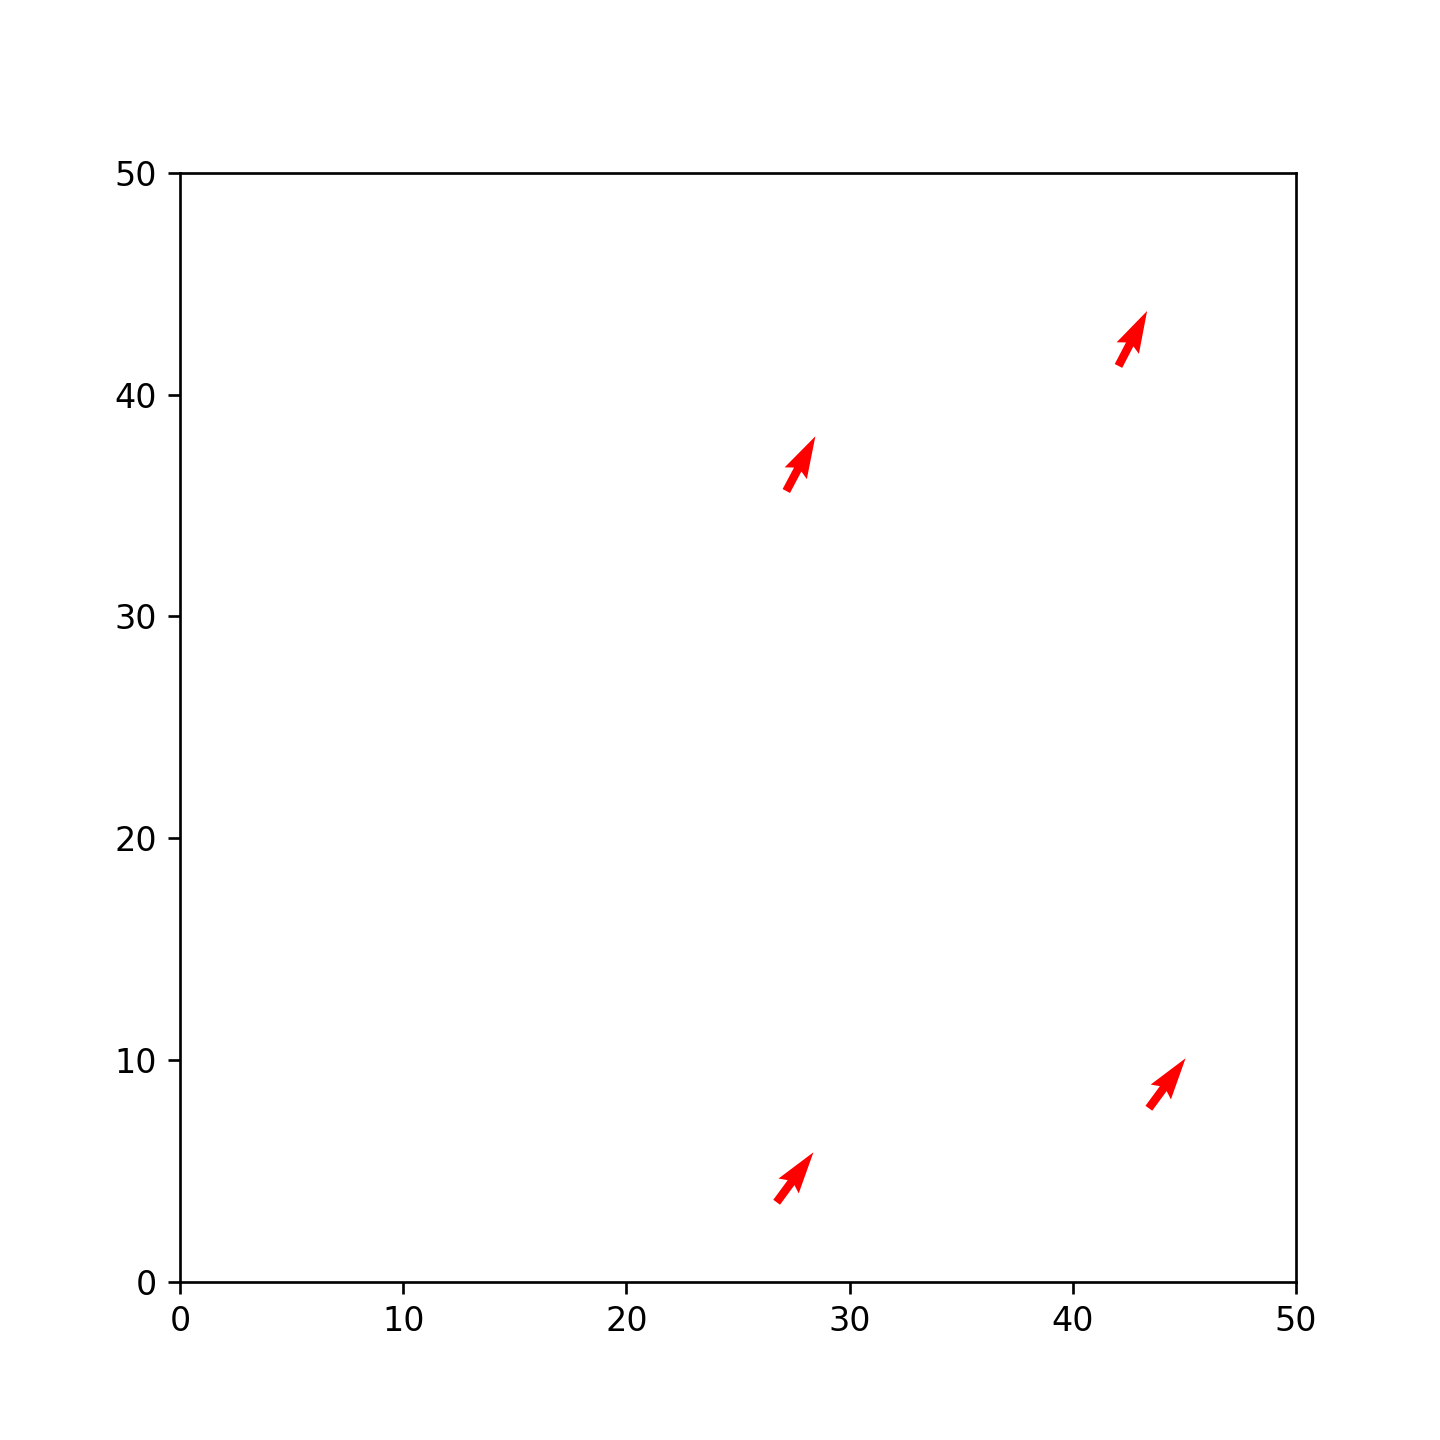
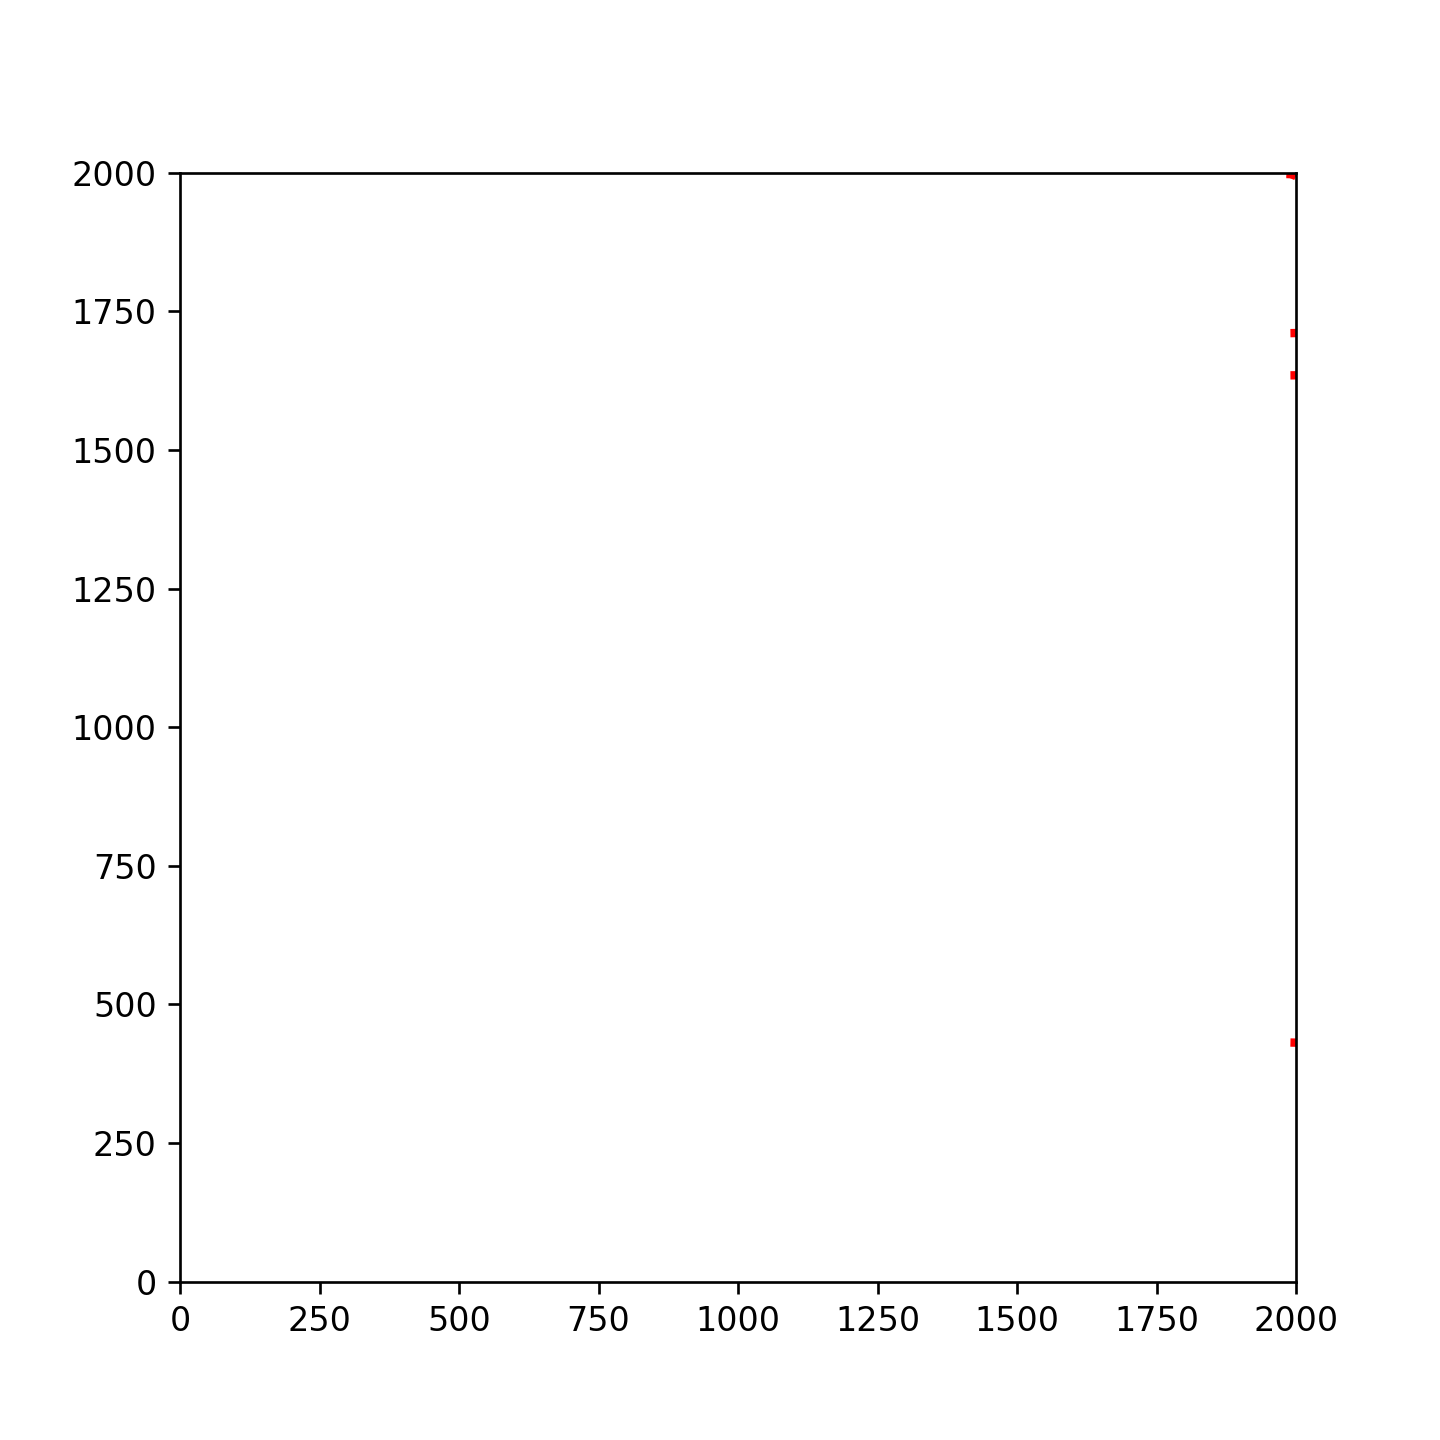
Added repel function

diff --git a/agent.py b/agent.py
@@ -2,77 +2,104 @@ import numpy as np
 import random
 from typing import List
 import math
-np.seterr(divide='ignore', invalid='ignore')
-
 
 # TODO: ADJUST TO SCALE
 
 # Simulation parameters
-v0           = 5      # velocity
-Rr           = 6      # interaction radius
+s            = 10      # velocity
+Rr           = 1      # interaction radius
 Ro           = 8
-dt           = 0.1      # time step
+#dt           = 1/s      # time step
 Nt           = 200      # number of time steps
 k            = 0.5        # Attraction factor
 a            = 80        # agent is visible to other agent in time a
-dt           = 0.001     # time step
-L            = 50       # range of x, y values
+dt           = 0.1     # time step
+L            = 2000       # range of x, y values
 M            = L//4		# smaller box
 
+# Deal with NaN bugs
+np.seterr(divide='ignore', invalid='ignore')
 
 class Agent:
-    theta  = random.randint(-1 * int(np.pi), int(np.pi))
+    
     def __init__(self,x,y) -> None:
         self.x = x
         self.y = y
         self.c = np.array([self.x,self.y])
+        self.theta  = round(random.uniform(-math.pi, math.pi), 2)
         
-        self.vx = v0 * np.cos(self.theta)
-        self.vy = v0 * np.sin(self.theta)
+        self.vx = s * np.cos(self.theta)
+        self.vy = s * np.sin(self.theta)
         self.v = np.array([self.vx, self.vy])
 
     def move(self):    
-        self.x += self.vx * dt
-        self.y += self.vy * dt
+        self.x = self.x + (self.vx * dt)
+        self.y = self.y + (self.vy * dt)
        
-    def update_velocity(self):
-        self.vx = self.vx + (v0 * np.cos(self.theta))
-        self.vy = self.vy + (v0 * np.sin(self.theta))
+        self.vx = s * np.cos(self.theta)
+        self.vy = s * np.sin(self.theta)
         
     def update_angular_velocity(self, foreigners):
+        
+        # Repel axis units
+        xlim = [0, L]
+        ylim = [0,L]
+        
         info_dict = {'info1': np.array([0,0], dtype=np.float64), 
                      'info2': np.array([0,0], dtype=np.float64), 
                      'info3': np.array([0,0], dtype=np.float64), 
                      'scalar_constant': 0, 
                      }
-        
         # Adding up all the distances and velocities of each agent, needed for calculating the next equations
-        for agent in foreigners:  
-             
+        for agent in foreigners:         
             distance = math.dist(self.c, agent.c)  
             
             # Seeing if there are visible agents       
             if a > distance > 0:
                 info_dict['info1'] += (agent.c - self.c)
-                info_dict['scalar_constant'] += np.linalg.norm(agent.c - self.c) 
-                """ 
-                    # Radius of orientation
-                    if np.linalg.norm(self.c - agent.c) <= Ro:
-                        info_dict['info2'] += agent.v
-                    
-                    # Radius of repulsion    
-                    if np.linalg.norm(self.c - agent.c) <= Rr:
-                        info_dict['info3'] += np.round(info_dict['info1']/(info_dict['scalar_constant']**2), 3) 
-                    """
-                   
-        #u1 = -1 * info_dict['info3']
-        #u2 = (self.v + info_dict['info3'])/np.linalg.norm(self.v + info_dict['info3'])
-        u3 = info_dict['info1']/info_dict['scalar_constant']
+                info_dict['scalar_constant'] += np.linalg.norm(agent.c - self.c)              
         
-        u =  u3
-        w = k * (np.arctan2(u[1], u[0]) - self.theta)
+                # Radius of orientation
+                if np.linalg.norm(self.c - agent.c) <= Ro:
+                    info_dict['info2'] += agent.v
+                
+                # Radius of repulsion    
+                if np.linalg.norm(self.c - agent.c) <= Rr:
+                    info_dict['info3'] += info_dict['info1']/(info_dict['scalar_constant']**2)
+                  
+        repulsion_equation = -1 * info_dict['info3']
+        orientation_equation = (self.v + info_dict['info3'])/np.linalg.norm(self.v + info_dict['info3'])
+        attraction_equation = info_dict['info1']/info_dict['scalar_constant']
+        
+        u =  attraction_equation
+        
+        w = k * ((((math.atan2(u[1], u[0]) - self.theta) + math.pi) % (2*math.pi)) - math.pi)
         
         self.theta = self.theta + (dt * w)
+        
+    def repel_function(self):
+        xlim = [0,L]
+        ylim = [0,L]
+        error_line = 50
+        
+        
+        if self.x < xlim[0] + error_line:
+            self.x += error_line
+            self.theta = self.theta * -1
+        elif self.x > xlim[1] - error_line:
+            self.x -= error_line
+            self.theta = self.theta*-1
+        if self.y < ylim[0] + error_line:
+            self.y += error_line
+            self.theta = self.theta*-1
+        elif self.y > ylim[1] - error_line:
+            self.y += error_line
+            self.theta = self.theta*-1
+     
+
+
+
+
         
 
 

diff --git a/main.py b/main.py
@@ -4,11 +4,11 @@ from agent import Agent
 import math
 
 # Simulation parameters
-L            = 50       # size of box
-M            = L//4		# smaller box
-dt           = 0.001     # time step
+min_pos      = 900      # minimum position of birds
+max_pos      = 1500       # max position of birds
+L            = 2000  	# size of box
 Nt           = 5000      # number of time steps
-N            = 2       # number of birds
+N            = 20      # number of birds
 plotRealTime = True
 
 
@@ -16,60 +16,43 @@ plotRealTime = True
 def main():
     
     # Create birds
-	agent = Agent(random.randint(0,L), random.randint(0,L),)
-	agents = [Agent(random.randint(0,L),random.randint(0,L),) for i in range(N)]
+	agent = Agent(random.randint(min_pos, max_pos), random.randint(min_pos, max_pos))
+	agents = [Agent(random.randint(min_pos, max_pos), random.randint(min_pos, max_pos)) for i in range(N)]
 	foreigners = [other_agent for other_agent in agents if other_agent is not agent]
    
     # Prep figure
-	fig = plt.figure(figsize=(L,L), dpi=96)
+	fig = plt.figure(figsize=(6,6), dpi=96)
 	ax = plt.gca()
  
 	for i in range(Nt):
-
-		# move
+   
 		for agent in agents:
-			agent.move()
-
+			agent.repel_function()
+   
 		# List of x and y values of birds to put in quiver
-		x = [agent.x for agent in agents if not math.isnan(agent.x)]
-		y = [agent.y for agent in agents if not math.isnan(agent.y)]
-		vx = [agent.vx for agent in agents if not math.isnan(agent.vx)]
-		vy = [agent.vy for agent in agents if not math.isnan(agent.vy)]
-
-		# Trying to expand the axis according to how the agents
-		"""
-		mean_of_x_pos = sum(x) / len(x)
-		mean_of_y_pos = sum(y) / len(y)
+		x = [agent.x for agent in agents]
+		y = [agent.y for agent in agents]
+		u = [agent.vx for agent in agents]
+		v = [agent.vy for agent in agents]
   
-		width_min = mean_of_x_pos//2
-		width_max = mean_of_x_pos*2
-		height_min = mean_of_y_pos//2
-		height_max = mean_of_y_pos*2
-		"""
-
-		# Make agent come back around if it leaves the axis
-		x = [i % L for i in x]
-		y = [i % L for i in y]
-
 		# plot in real time
 		if plotRealTime or (i == Nt-1):
 			# Clearing the axis and plotting again
 			plt.cla()
-			ax.quiver(x,y,vx,vy,color='r')
-			# Limits
-			ax.set_xlim(0, L)
-			ax.set_ylim(0, L)
+			ax.quiver(x,y,u,v, color='r')
+			ax.set_xlim(0,L)
+			ax.set_ylim(0,L)
 			# Pause per frame
-			plt.pause(0.0001)
-	
-		# update velocities
-		for agent in agents:
-			agent.update_velocity()
-			
+			plt.pause(0.001)
+   
 		# Update angular velocity 
 		for agent in agents:
 			agent.update_angular_velocity(foreigners)
-   			
+
+		# move
+		for agent in agents:
+			agent.move()
+		
 	# Save figure
 	plt.savefig('activematter.png',dpi=240)
 	plt.show()
